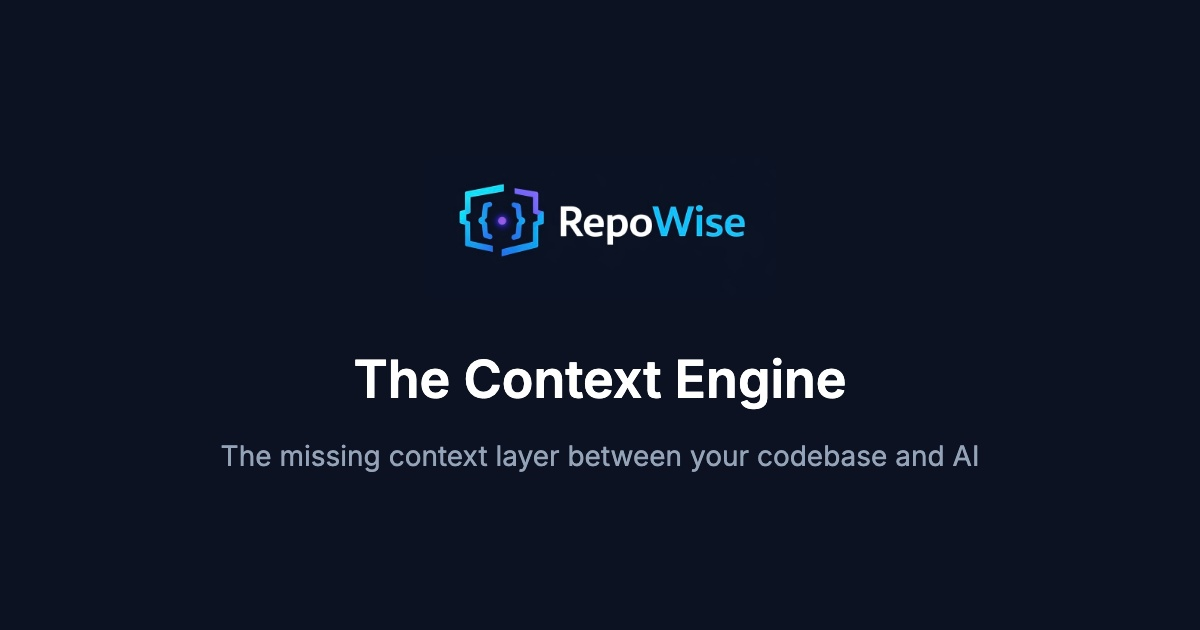
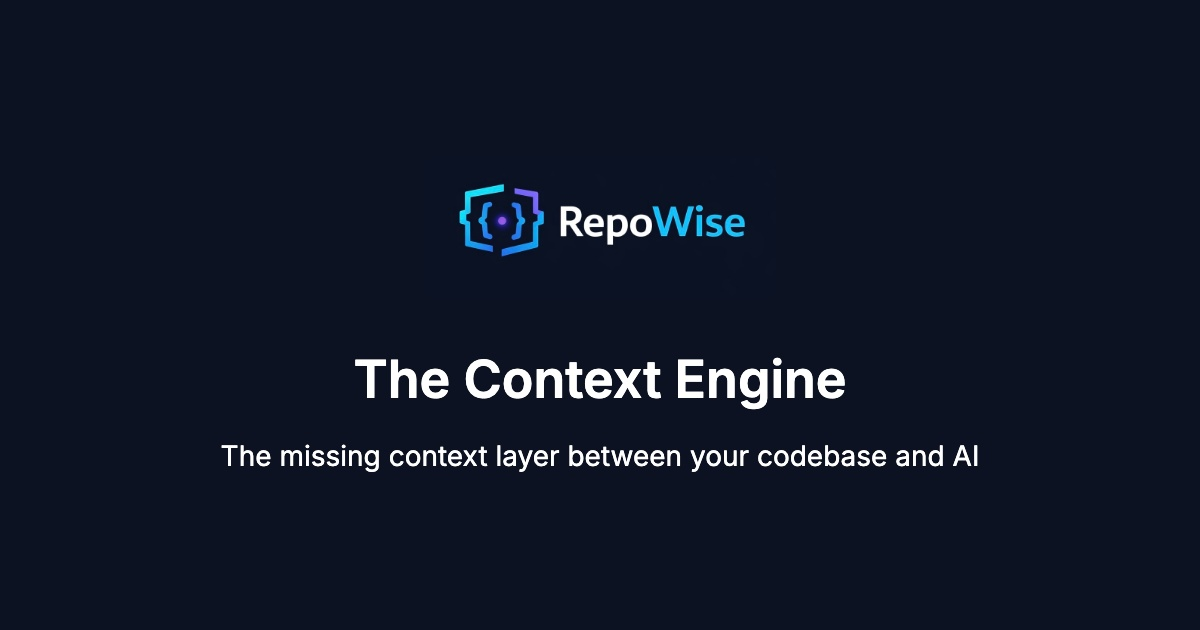
OG image: all text in white

Changed region(s): [[0.185, 0.6937, 0.8325, 0.754]]

diff --git a/public/og-generator.html b/public/og-generator.html
@@ -35,7 +35,7 @@
     .description {
       font-size: 28px;
       font-weight: 400;
-      color: #94a3b8;
+      color: white;
       max-width: 900px;
       text-align: center;
     }
